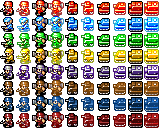
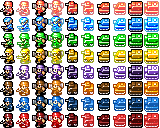
finiiiiii

Changed region(s): [[0.0312, 0.5, 1.0, 1.0], [0.0, 0.0, 1.0, 0.125]]

diff --git a/src/client/main.cpp b/src/client/main.cpp
@@ -372,18 +372,26 @@ void AIPlay(AI* ai) {
 
 void AITest() {
     // Creation d'objets Joueur
-    unique_ptr<Joueur> joueur1(new Joueur(4,true));
+    unique_ptr<Joueur> joueur1(new Joueur(0,true));
     unique_ptr<Joueur> joueur2(new Joueur(5,true));
-    std::vector<Joueur*> listeJoueurs {joueur1.get(), joueur2.get()};
+    unique_ptr<Joueur> joueur3(new Joueur(6,true));
+    unique_ptr<Joueur> joueur4(new Joueur(7,true));
+    std::vector<Joueur*> listeJoueurs {joueur1.get(), joueur2.get(), joueur3.get(), joueur4.get()};
 
 
     // Creation d'objets Batiment
     unique_ptr<Batiment> batiment (new Usine(Position(6, 4), 5));
-    unique_ptr<Batiment> batiment2 (new Usine(Position(15, 15), 4));
-    unique_ptr<Batiment> batiment3 (new Usine(Position(4, 4), 5));
-    unique_ptr<Batiment> batiment4 (new Usine(Position(13, 15), 4));
+    unique_ptr<Batiment> batiment2 (new Usine(Position(15, 15), 0));
+    unique_ptr<Batiment> batiment3 (new Usine(Position(4, 4), 6));
+    unique_ptr<Batiment> batiment4 (new Usine(Position(13, 15), 7));
     unique_ptr<Batiment> batiment5 (new QG(Position(5, 5), 5));
-    unique_ptr<Batiment> batiment6 (new QG(Position(14, 14), 4));
+    unique_ptr<Batiment> batiment6 (new QG(Position(14, 14), 0));
+    unique_ptr<Batiment> batiment7 (new QG(Position(4, 3), 4));
+    unique_ptr<Batiment> batiment8 (new QG(Position(16, 15), 1));
+    unique_ptr<Batiment> batiment9 (new QG(Position(2, 4), 2));
+    unique_ptr<Batiment> batiment10 (new QG(Position(3, 3), 3));
+    unique_ptr<Batiment> batiment11 (new QG(Position(2, 2), 6));
+    unique_ptr<Batiment> batiment12 (new QG(Position(14, 16), 7));
 
     vector<Batiment*> batiments;
     batiments.push_back(batiment.get());
@@ -392,13 +400,25 @@ void AITest() {
     batiments.push_back(batiment4.get());
     batiments.push_back(batiment5.get());
     batiments.push_back(batiment6.get());
+    batiments.push_back(batiment7.get());
+    batiments.push_back(batiment8.get());
+    batiments.push_back(batiment9.get());
+    batiments.push_back(batiment10.get());
+    batiments.push_back(batiment11.get());
+    batiments.push_back(batiment12.get());
 
 
 
     // Creation d'objets Flag
-    unique_ptr<Flag> flag1 (new Flag(Position(5,3),5));
-    unique_ptr<Flag> flag2 (new Flag(Position(14,16),4));
-    std::vector<Flag*> flags {flag1.get(), flag2.get()};
+    unique_ptr<Flag> flag1 (new Flag(Position(5,5),5));
+    unique_ptr<Flag> flag2 (new Flag(Position(16,16),0));
+    unique_ptr<Flag> flag3 (new Flag(Position(4,3),4));
+    unique_ptr<Flag> flag4 (new Flag(Position(16,15),1));
+    unique_ptr<Flag> flag5 (new Flag(Position(2,4),2));
+    unique_ptr<Flag> flag6 (new Flag(Position(3,3),3));
+    unique_ptr<Flag> flag7 (new Flag(Position(2,2),6));
+    unique_ptr<Flag> flag8 (new Flag(Position(14,16),7));
+    std::vector<Flag*> flags {flag1.get(), flag2.get(),flag3.get(), flag4.get(),flag5.get(), flag6.get(),flag7.get(), flag8.get()};
 
     // création d'un objet TerrainTab
     unique_ptr<TerrainTab> terrainTab (new TerrainTab(map1()));
@@ -414,7 +434,9 @@ void AITest() {
 
     // Creation d'une IA
     unique_ptr<HeuristicAI> crazyAI(new HeuristicAI(5,engine.get(),jeu.get()));
-    unique_ptr<HeuristicAI> geniusAI(new HeuristicAI(4,engine.get(),jeu.get()));
+    unique_ptr<HeuristicAI> geniusAI(new HeuristicAI(0,engine.get(),jeu.get()));
+    unique_ptr<HeuristicAI> crazyAI2(new HeuristicAI(6,engine.get(),jeu.get()));
+    unique_ptr<HeuristicAI> geniusAI2(new HeuristicAI(7,engine.get(),jeu.get()));
 
     // Creation d'objets Tileset
     render::Tileset<Unite> uniteTileset("res/units.png");
@@ -443,6 +465,8 @@ void AITest() {
     // Creation de deux threads dedies a l'IA
     thread ia_th1(AIPlay, crazyAI.get());
     thread ia_th2(AIPlay, geniusAI.get());
+    thread ia_th3(AIPlay, crazyAI2.get());
+    thread ia_th4(AIPlay, geniusAI2.get());
     cout<<"Initializing the AI..."<<endl;
 
     cout<<"Hit Ctrl-C to close the game."<<endl;
@@ -453,6 +477,8 @@ void AITest() {
     ng.join();
     ia_th1.join();
     ia_th2.join();
+    ia_th3.join();
+    ia_th4.join();
 }
 
 int main(int argc,char* argv[]) 

diff --git a/src/client/render/Tileset.h b/src/client/render/Tileset.h
@@ -188,10 +188,10 @@ Tileset<T>::Tileset (std::string filename) : filename(filename) {
 	    Tile flagBleu(16,0,16,16);
             Tile flagVert(32,0,16,16);
 	    Tile flagJaune(48,0,16,16);
-            Tile flagViolet(60,0,16,16);
-	    Tile flagBrun(76,0,16,16);
-            Tile flagBleuF(92,0,16,16);
-	    Tile flagRougeF(108,0,16,16);
+            Tile flagViolet(64,0,16,16);
+	    Tile flagBrun(80,0,16,16);
+            Tile flagBleuF(96,0,16,16);
+	    Tile flagRougeF(112,0,16,16);
 
             tiles = {flagRouge,flagBleu,flagVert,flagJaune,flagViolet,flagBrun,flagBleuF,flagRougeF};
     }

diff --git a/src/client/render/UI.cpp b/src/client/render/UI.cpp
@@ -53,6 +53,18 @@ namespace render {
 			case 3 :
 				couleur = "Jaune";
 				break;
+			case 4 :
+				couleur = "Violet";
+				break;
+			case 5 :
+				couleur = "Brun";
+				break;
+			case 6 :
+				couleur = "Bleu Fonce";
+				break;
+			case 7 :
+				couleur = "Rouge Fonce";
+				break;
 		}
 		std::stringstream ss_color;
 		ss_color<<"Couleur : "<<couleur<<".";
